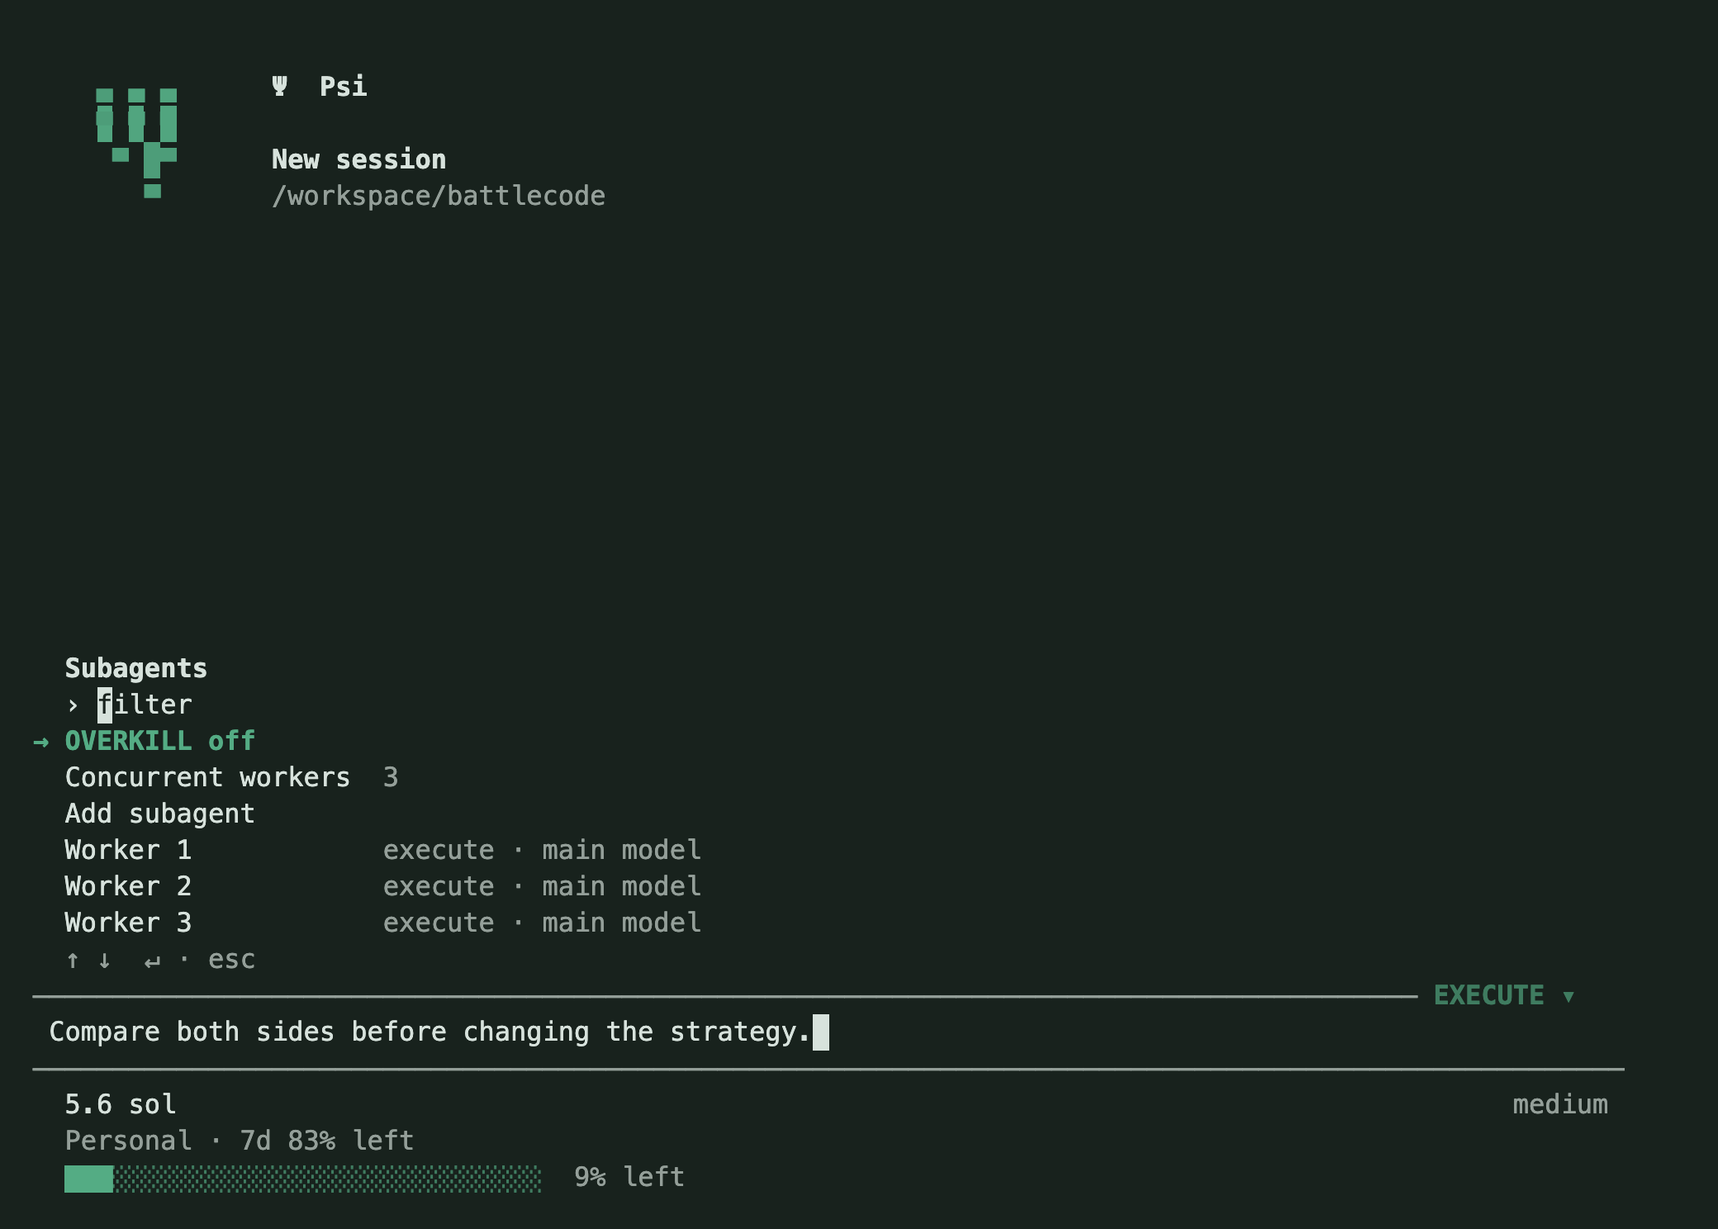
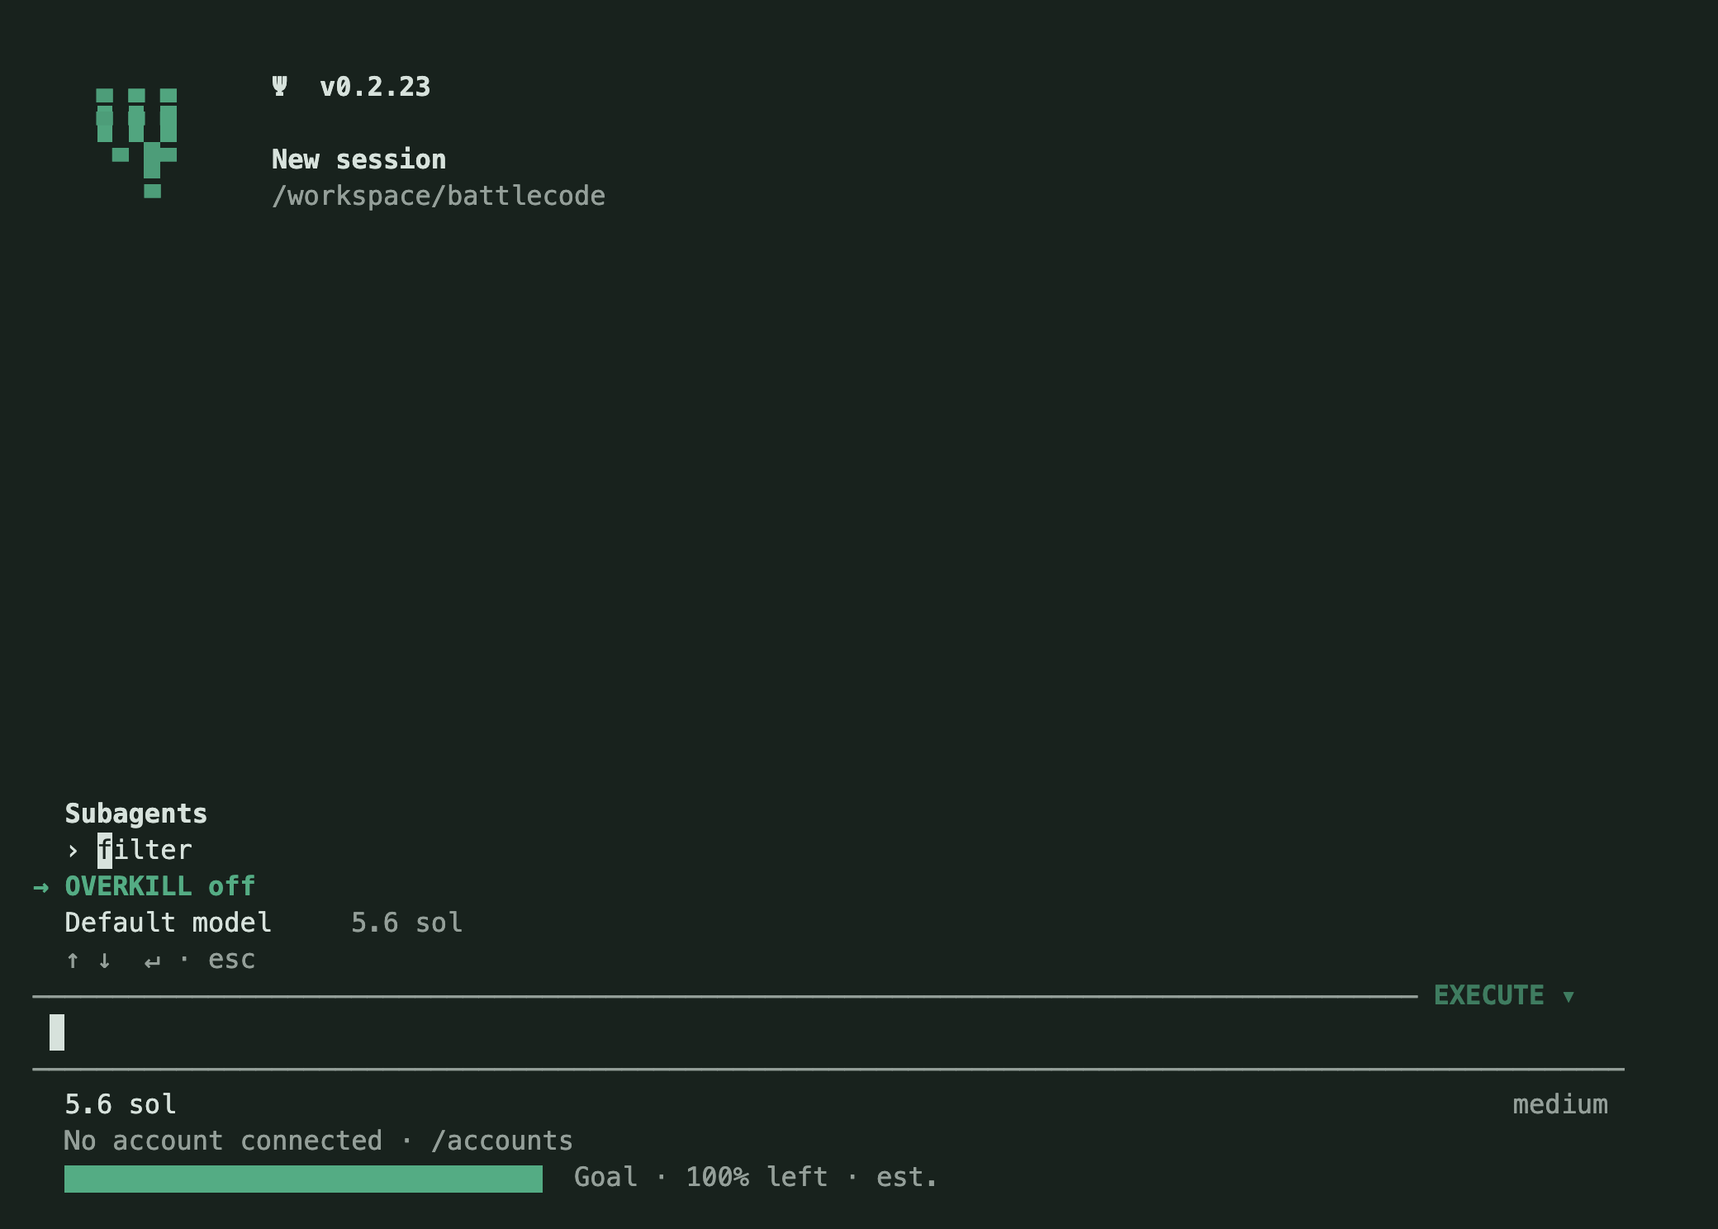
Remove worker profiles and group demand-driven subagents

diff --git a/docs/GUIDE.md b/docs/GUIDE.md
@@ -61,7 +61,7 @@ Click the mode control on the top input border, or press **Shift+Tab**, for **PL
 
 Use `/model` to type a search in the main input bar. The list and footer show model names, such as **5.6 luna**, without provider prefixes. Arrows move through matching models, Enter selects and Escape restores the draft. Duplicate display names are collapsed, preferring the current provider and then connected providers. A provider-specific query or explicit `provider/model` route remains available when you need another endpoint.
 
-Open `/effort` for a compact slider: **←/→** adjust effort, **Tab** stages the right-aligned **OVERKILL** toggle, **Enter** applies and **Escape** cancels. OVERKILL adds a flowing glow in your selected accent around the input bar. Disable Motion for a static accent. Use `/subagents` or the worker entry in `/settings` to set concurrency and edit each worker's model, thinking, plan/execute mode, request limit and budget independently. Subagents default to **5.6 sol**, independently of the main chat model. Change the default in `/settings` → **Subagent model** or `/subagents` → **Default model**. A preset’s **model** field opens the searchable model list in the main input bar; **Default** inherits the subagent default, and Escape preserves the existing selection. Save the worker to keep an override. Model changes apply to newly started workers. With OVERKILL enabled, submitting a prompt starts no workers. The main AI first understands the task, then uses `agent` to delegate useful independent assignments. Each spawn requires a distinct task name of one to five words, such as `Build replay viewer` or `Fix fixture parser`. Missing, generic, overlong and duplicate names are rejected. Workers can implement, debug, build, benchmark, research or do any other assigned task within their directories and mode. Omit `profile` for a general worker on the configured subagent model, or select a preset for model, effort and limits. Settings contain no role or job template. The parent assigns every task and task name when it delegates. The AI may explicitly choose plan or execute mode; a plan-mode parent always forces read-only children. New installations start with general-purpose worker presets. Legacy Researcher/Builder/Reviewer presets migrate to unrestricted workers, including saved sessions.
+Set the default worker model in `/settings` or `/subagents`. The main composer provides the searchable model picker; Escape preserves the previous choice. With OVERKILL enabled, the AI decides when to delegate and how many independent workers are useful. No profiles, preset roles or fixed worker-count setting remain. Each assignment needs a distinct descriptive task name of one to five words, a concrete prompt and a brief reason. Optional `model` and `effort` overrides apply to that worker. Related assignments share a short `group` label. With more than three active workers, the footer aggregates task groups; `/subagents` opens groups and individual assignments. Completed workers leave the footer immediately, with reports and follow-up actions retained in History. Workers inherit the selected directories and parent limits; a plan-mode parent forces read-only children. Legacy profile/count settings are ignored on load and resume.
 
 Worker rows below the usage bar show task names, model, active tool/response state and elapsed time. Finished workers disappear automatically; their records and results stay available in `/subagents`. At most three rows are shown; extra active workers are counted and `/subagents` exposes all runs. Completion uses filesystem events rather than inference polling. Reports are delivered at safe model boundaries and must be reviewed before the parent finishes. Interrupted parents can recover reports and deduplicated token receipts from saved journals. Double Escape stops the parent and workers.
 
@@ -118,7 +118,7 @@ Custom endpoint prices default to unknown. Use `/settings` → **API rates** to 
 | `/effort [level]` | Choose a model-supported reasoning effort |
 | `/accounts` | Login, switch or remove accounts |
 | `/directory <path>` | Select the working directory |
-| `/subagents` | Configure worker presets, independent models, thinking and limits |
+| `/subagents` | Default model, active task groups and worker history |
 | `/update` | Install the latest GitHub release |
 | `/settings` | Searchable settings UI for appearance, accounts, models, limits and execution |
 | `/loop [objective]` | Ask for a goal, then work until verified completion or user stop |
@@ -222,7 +222,7 @@ psi --resume SESSION_ID --json -p "Report pending work and continue."
 
 Psi's normal agent loop continues through tool calls. `/loop` without an argument asks for the objective. Autonomous goals continue after plain final responses, recoverable provider errors and stalls; `finish` requires a verified summary and existing evidence paths. Battlecode completion can additionally validate the experiment's fresh-fixture qualification.
 
-A reached budget/request limit keeps the goal **waiting**, with no further inference until the limit changes or the run resumes. Exhausted accounts and temporary failures also wait and recover. Double Escape or Ctrl+C stops the run and preserves the unfinished goal; type another message or resume the saved session to continue it. Defaults impose no cost or request ceiling for the main model; workers have their own configurable request limits. A killed process or reboot requires restarting Psi and resuming the saved session; no harness can guarantee uninterrupted execution through host failure or independently prove every natural-language objective.
+A reached budget/request limit keeps the goal **waiting**, with no further inference until the limit changes or the run resumes. Exhausted accounts and temporary failures also wait and recover. Double Escape or Ctrl+C stops the run and preserves the unfinished goal; type another message or resume the saved session to continue it. Defaults impose no cost or request ceiling for the main model; workers inherit the parent request and budget settings. A killed process or reboot requires restarting Psi and resuming the saved session; no harness can guarantee uninterrupted execution through host failure or independently prove every natural-language objective.
 
 Efficiency mechanisms:
 
@@ -310,7 +310,7 @@ New chats are temporary drafts until they contain a real message and a title. Th
 
 Subagent conversations now live under `sessions/<parent>/agents/<worker>`, alongside the parent chat. `/resume`, `psi sessions` and continue selection show only parent conversations. Existing idle worker sessions migrate on startup without changing journal content or usage identities. Active/locked workers wait until a later idle startup; they stay hidden from chat history. `/subagents` retains status, reports and follow-up actions.
 
-Delegation requires a concrete task, unique short name and a brief `why`. Optional `files` reserve disjoint paths against other active execution workers; these are coordination reservations, with the existing directory sandbox still governing access. Optional `checks` declare exact verification commands. Worker receipts identify commands that actually completed successfully, failures and unverified checks. Missing preset defaults to 32 requests. Existing preset limits are preserved. Duplicate active task prompts are rejected even with a different name. List/status responses stay compact, with full reports on disk.
+Delegation requires a concrete task, unique short name and a brief `why`. Optional `files` reserve disjoint paths against other active execution workers; these are coordination reservations, with the existing directory sandbox still governing access. Optional `checks` declare exact verification commands. Worker receipts identify commands that actually completed successfully, failures and unverified checks. Workers inherit the parent request limit; zero is unlimited. Duplicate active task prompts are rejected even with a different name. List/status responses stay compact, with full reports on disk.
 
 Core instructions and sorted tool definitions stay stable across naming/mode changes; changing runtime state is appended only when needed. Final-review calls retain the tool schema and disable invocation on supported adapters. Compaction has a separate, short instruction prefix and cache identity. `request_metrics` events record prefix fingerprints and payload sizes without prompts or credentials; provider usage receipts retain actual cached-token counts. Unchanged file reads reuse an earlier complete result only while it remains in current context; edits and compaction force fresh content. Shell/build tools wait up to five seconds by default before returning a background job; `job wait` without `wait_ms` now awaits completion locally. An explicit `wait_ms` still performs a bounded wait.
 
@@ -322,6 +322,6 @@ Bare `psi` reopens the last active saved chat in its saved directory. Use `psi -
 
 Accepted input and queued corrections are flushed to `~/.psi/sessions/<id>/events.jsonl` before being displayed. Visible assistant text is journaled during streaming and flushed before display. Abruptly interrupted text is restored as an interrupted response, with incomplete text kept out of model context. Graceful close drains active writes and preserves the composer draft. The append-only journal is authoritative; missing metadata snapshots and torn trailing records are recovered without deleting earlier messages. No model call is needed to restore history.
 
-`/reload` reloads settings and role-free worker presets. If the application source changed, it saves the session/draft and restarts into that same chat. An already-running older build needs one full close/reopen to gain this restart behaviour.
+`/reload` reloads settings. If the application source changed, it saves the session/draft and restarts into that same chat. An already-running older build needs one full close/reopen to gain this restart behaviour.
 
 The pinned header shows `Ψ v<running version>` and retains a known newer version with `psi update`. After installing, a still-running old process displays a restart reminder. `psi update` prepares a checksum-verified release before activation. An edited source checkout is preserved and its own launcher can switch to a separate managed release.

diff --git a/DESIGN.md b/DESIGN.md
@@ -14,7 +14,7 @@ Use the terminal's configured monospace font. Bold distinguishes product and pic
 
 ## Layout
 
-A fullscreen terminal viewport contains the workspace header, a scrolling conversation and inline selection panel. The multiline prompt is pinned to the bottom on startup, during output and through resizes. Show the current chat name immediately above the session working directory beside the logo. At narrow widths use the compact identity with name and path on separate rows, shortening paths from the left. Task-named subagent status rows sit below the usage bar while active. OVERKILL enables model-directed delegation rather than launching workers at prompt submission. Require a unique descriptive name of one to five words for each assignment, without role suffixes or repeated prompt prefixes. Worker tasks are unrestricted by researcher/reviewer roles. Hide finished rows immediately without deleting saved records or reports. Show up to three rows, with overflow counted, active tool/status, short model name and elapsed time. The first row beneath the editor shows the model on the left and the bare effort value aligned to the right, with no provider label. A second row shows the active account name. Subscription accounts display only reported usage windows (5h/7d when supplied), omitting absent/unlimited windows. Metered API accounts display the current session cost, or cost unavailable when pricing is unknown. Place the clickable PLAN/EXECUTE control at the right edge of the top input border. Keep draft and slash completion at their native full width without a left gutter. Mode changes produce no conversation messages. The solid accent bottom meter prefers an actual reported five-hour quota, then a weekly or other valid quota. It fills according to percent left: 100% is unused and 0% is exhausted. Only the weekly quota stays beside the account name, avoiding duplication of the five-hour meter; the bar itself shows only the percent left. When no quota exists, clearly label the fallback as estimated goal work remaining. Conversation scrolling and selection use the terminal renderer; the visible document returns to shell scrollback on exit. Pickers filter immediately and expose keyboard hints. Narrow widths truncate metadata before primary actions. Tool results show short previews, with full results in session artifacts.
+A fullscreen terminal viewport contains the workspace header, a scrolling conversation and inline selection panel. The multiline prompt is pinned to the bottom on startup, during output and through resizes. Show the current chat name immediately above the session working directory beside the logo. At narrow widths use the compact identity with name and path on separate rows, shortening paths from the left. Task-named subagent status rows sit below the usage bar while active. OVERKILL enables model-directed delegation rather than launching workers at prompt submission. Require a unique descriptive name of one to five words for each assignment, without role suffixes or repeated prompt prefixes. Worker tasks are unrestricted by researcher/reviewer roles. Hide finished rows immediately without deleting saved records or reports. Show up to three rows, with active tool/status, short model name and elapsed time. With more than three active workers, aggregate related assignments by their task group, showing an active count and one task preview. Overflow counts every hidden worker. `/subagents` opens groups, individual workers and completed History. Remove profiles and fixed worker-count controls; a searchable default model remains. Keep all active workers in the registry during restore and resize, without a 32-worker truncation. The first row beneath the editor shows the model on the left and the bare effort value aligned to the right, with no provider label. A second row shows the active account name. Subscription accounts display only reported usage windows (5h/7d when supplied), omitting absent/unlimited windows. Metered API accounts display the current session cost, or cost unavailable when pricing is unknown. Place the clickable PLAN/EXECUTE control at the right edge of the top input border. Keep draft and slash completion at their native full width without a left gutter. Mode changes produce no conversation messages. The solid accent bottom meter prefers an actual reported five-hour quota, then a weekly or other valid quota. It fills according to percent left: 100% is unused and 0% is exhausted. Only the weekly quota stays beside the account name, avoiding duplication of the five-hour meter; the bar itself shows only the percent left. When no quota exists, clearly label the fallback as estimated goal work remaining. Conversation scrolling and selection use the terminal renderer; the visible document returns to shell scrollback on exit. Pickers filter immediately and expose keyboard hints. Narrow widths truncate metadata before primary actions. Tool results show short previews, with full results in session artifacts.
 
 ## Interaction
 

diff --git a/README.md b/README.md
@@ -68,7 +68,7 @@ The Ψ header stays visible above compact bottom menus. Chat names sit above the
 | :--- | :--- |
 | `/model` · `/effort` | Model, reasoning and OVERKILL |
 | `/accounts` | Add, switch or remove accounts |
-| `/subagents` | Models, effort, limits and concurrency |
+| `/subagents` | Default model, active task groups and history |
 | `/loop` | Give Psi a persistent objective |
 | `/directory <path>` | Switch working directory |
 | `/stats` · `/tools` | Activity and available tools |
@@ -77,7 +77,7 @@ The Ψ header stays visible above compact bottom menus. Chat names sit above the
 | `/name [title]` | Rename the current session |
 | `/help` | Every command |
 
-With **OVERKILL** on, the main AI decides when useful independent work should be delegated, up to your configured concurrency. Sending a prompt does not launch workers. Every worker has a unique task name of one to five words and can implement, debug, test, benchmark or research. Their task names, activity and model appear below the usage bar while active; finished workers hide automatically, with results retained in `/subagents`. Completed tasks automatically include an evidence-backed final review. Updates explain work along the way, and sending a message returns to the latest chat content. Reports return to the main agent before it finishes; each assignment includes clear ownership. Subagent histories and results stay inside the parent session, so workers do not create extra chats. Subagents use their configured models and selected provider accounts and consume normal provider usage.
+With **OVERKILL** on, the main AI decides when useful independent work should be delegated, with no fixed worker-count cap. Sending a prompt does not launch workers. Every worker has a unique task name of one to five words and can implement, debug, test, benchmark or research. Their task names, activity and model appear below the usage bar while active. When more than three workers are active, related assignments share compact task-group rows; `/subagents` opens each group and its individual workers. Finished workers hide automatically, with results retained in History. There are no worker profiles or preset roles. The default model is 5.6 Sol; an assignment can override its model and effort. Completed tasks automatically include an evidence-backed final review. Updates explain work along the way, and sending a message returns to the latest chat content. Reports return to the main agent before it finishes; each assignment includes clear ownership. Subagent histories and results stay inside the parent session, so workers do not create extra chats. Subagents use their configured models and selected provider accounts and consume normal provider usage.
 
 Answers use clean Markdown without repeated assistant headings. Reads and searches group under **Exploring / Explored**; commands use **Running / Ran** with indented output. **Ctrl+T** expands tool details.
 

diff --git a/docs/VERIFICATION.md b/docs/VERIFICATION.md
@@ -196,3 +196,10 @@ Actual API invoices and real competition transactions were not exercised in this
 - This repair is local while the independent efficiency publication gate runs. Existing unsaved text from older builds cannot be reconstructed if it was never written.
 
 - Header/update tests cover version identity, persistent available/installed notices, checksum and dependency failures, managed activation and preservation of dirty source checkouts. A real parallel fast-command test covers worker completion handler registration and ordered metadata snapshots.
+
+
+## Profile-free task groups (0.2.23)
+
+- All 167 local tests pass. New tests exercise 40 simultaneous durable worker assignments without provider requests, restoration beyond 32 workers, restart/follow-up beyond the old cap, shared task groups, complete overflow counts, narrow layouts and per-worker model routing.
+- Legacy presets and count settings are ignored from both machine configuration and saved session settings. The runtime prompt, tool schema, Settings and Subagents menu no longer offer worker profiles. Duplicate tasks, conflicting file ownership, plan-mode restrictions and exact-once accounting remain covered by the integration suite.
+- Startup performs a fresh read-only release check, while the pinned version/update notice remains covered at narrow widths. The release is prepared in an isolated worktree; publishing does not install it on the development laptop. No end-to-end inference-usage improvement is claimed for this feature release.

diff --git a/docs/COMMAND_CHANGES.md b/docs/COMMAND_CHANGES.md
@@ -4,7 +4,7 @@ The following slash commands are removed. Their alternatives are explicit; none 
 
 | Removed | What it did and how it was used | Recommendation |
 | --- | --- | --- |
-| `/agents` | Opened worker roles, models, effort and concurrency. | Renamed to `/subagents`; keep the new name. All functionality remains. |
+| `/agents` | Opened worker roles, models, effort and concurrency. | Renamed to `/subagents`. Profiles and fixed worker-count controls were removed in 0.2.23; the AI assigns tasks and groups workers as needed. |
 | `/provider` | Interactive setup for a custom endpoint, e.g. a local vLLM server. | Keep removed for a quieter command list. Advanced setup still works with `psi provider add --id local --url http://localhost:8000/v1 --model my-model --keyless`. |
 | `/cd <path>` | Started a new session rooted in another project directory. | Convenient when moving between projects, but optional. Use `psi -C /path` from the shell; `/directory add` grants additional tool access without changing the session root. |
 | `/summary-model provider/model` | Selected a separate model for context compaction; `same` reused the main model. | Keep in `/settings` → Compaction model. A cheaper summarizer can reduce long-loop cost, but this rarely needs its own command. |
